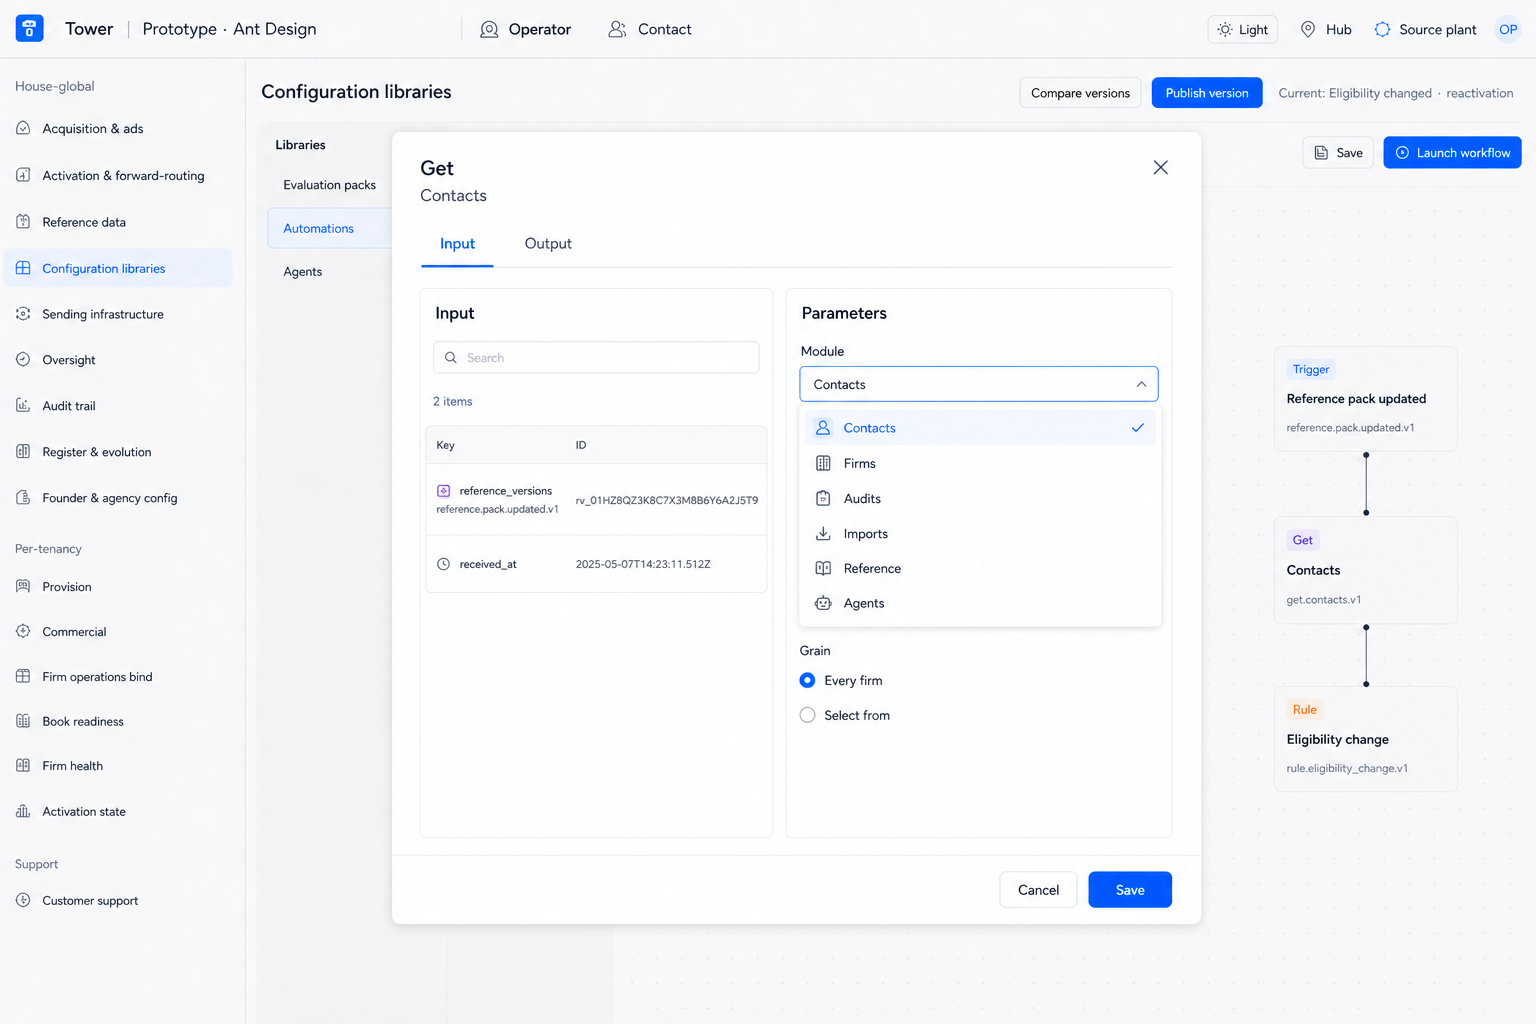
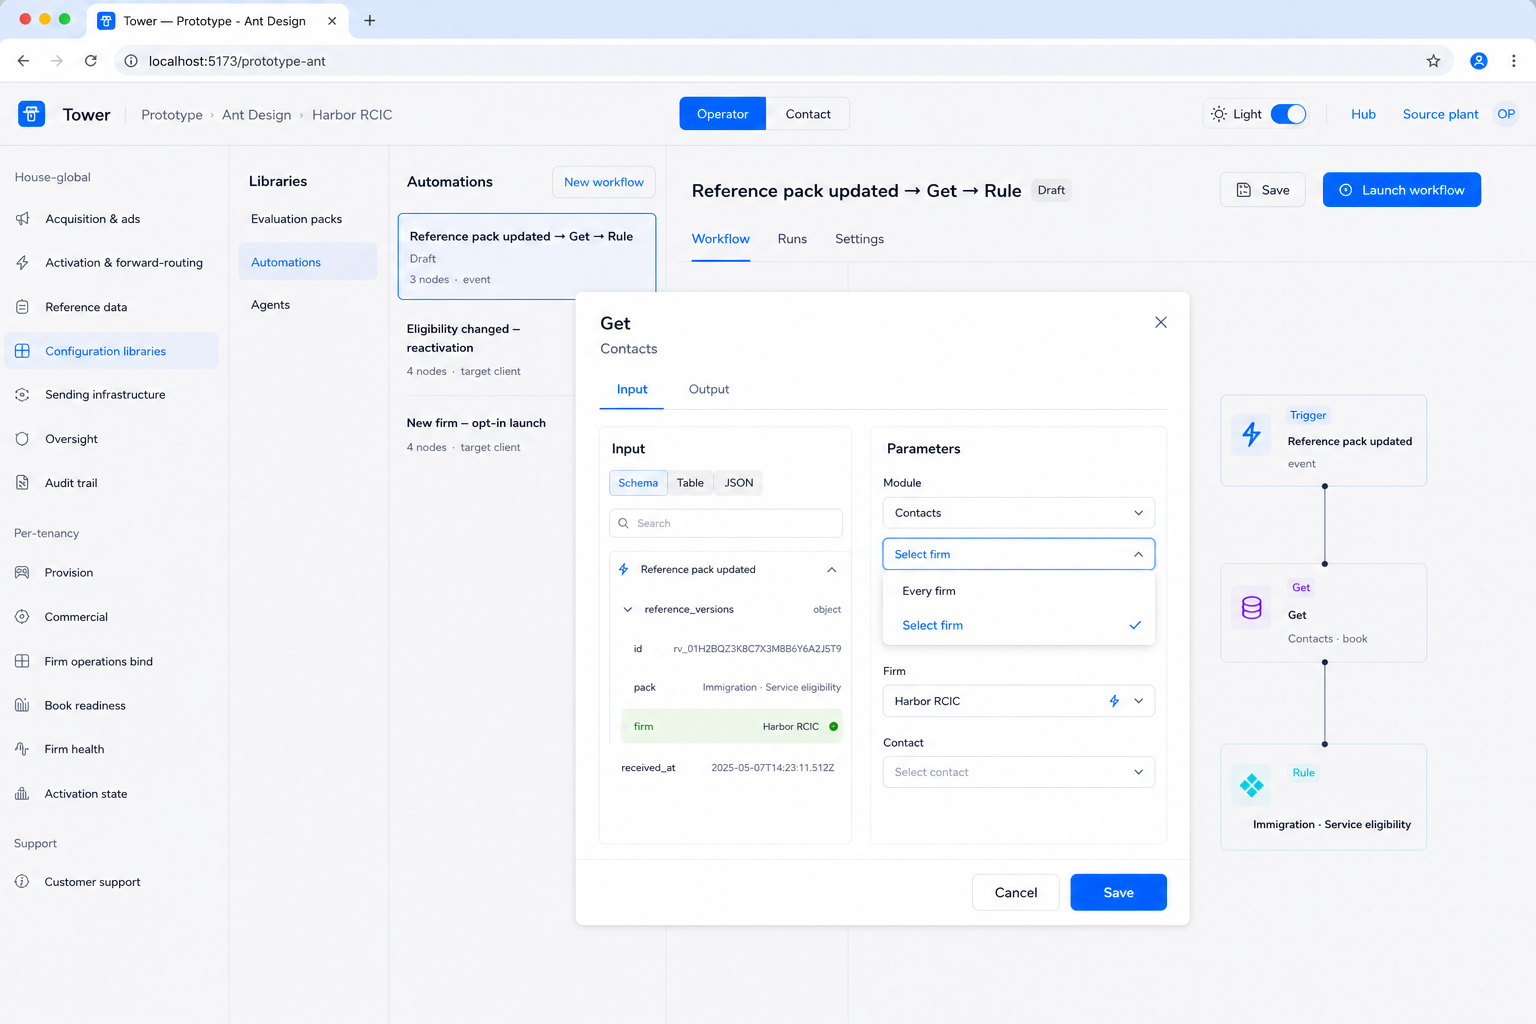
docs: A23 Parameters — Every firm stays; Select is a dropdown cascade
Left Input tree kept. Selector is a dropdown (Every firm / Select firm),
not radios. Select opens Firm then Contact comboboxes; left writes apply there.

diff --git a/docs/register/AUTOMATIONS-UI-BLUEPRINT.md b/docs/register/AUTOMATIONS-UI-BLUEPRINT.md
@@ -65,7 +65,7 @@ These files are **chosen**. Later plates revise earlier ones only where the tabl
 | **A18** | [`A18-trigger-global-local.png`](./automations-blueprint/A18-trigger-global-local.png) | chrome | Inside trigger. After the event: **Global** (all of that kind) or **Local** (this specific one). Example: form submitted. | 18:53 | fills law 27. A5 stays Event vs Schedule |
 | **A19** | [`A19-automations-contacts.png`](./automations-blueprint/A19-automations-contacts.png) | chrome | Automations **Contacts** = the same look as Agents C8. Same Add contact modal. Does not start a mission now. | 18:53 · 01:01 | companion to C8 / C8b |
 | **A22** | [`A22-get-canvas.png`](./automations-blueprint/A22-get-canvas.png) | chrome | Canvas. **Get** is a node kind. Chain: **Reference pack updated → Get → Rule**. Palette includes Get. | 17:06 | — |
-| **A23** | [`A23-get-input-parameters.png`](./automations-blueprint/A23-get-input-parameters.png) | chrome | Inside **Get**. n8n split: **Input** left (prior writes) · **Parameters** middle (Module + grain). **Output** is its own tab, not opened. Evergreen — not hardcoded. | 17:06 | — |
+| **A23** | [`A23-get-input-parameters.png`](./automations-blueprint/A23-get-input-parameters.png) | chrome | Inside **Get**. Left = n8n tree (keep). Parameters: **dropdown** Every firm / Select firm. Select → Firm then Contact **comboboxes** (dropdown + input). Left writes apply in those boxes. | 17:33 | revises 17:26 |
 
 **Why A10 / A13 are in the lineup and still not chrome:** they are the **idea** of output classes as a lattice. They are not Operator screens. The DAG piece that does that fork is the **If / condition node**, now on the glass as **A16**. Keep both diagrams so the evolution (hole → listing) is visible. Do not ascribe A13 as a screen.
 
@@ -535,7 +535,7 @@ Fallback: if Ant has no Rule GUI (it does not), the picture is still the face. H
 | **In-app action: ascribe a tag** | Campaign fails → record / tag. Subscription bell is that tag. | Named. Do not invent the rest. |
 | **Lineage queryable** | Who created the objective (agent vs hand), path to completion, completion event, time. | Queryable at minimum. Not a new screen. |
 | **Assign existing vs from template** | **Settled 00:02.** A14. No create-agent in Automations. | Drawn. |
-| **Get node** | New kind. Read records from a **module**, filter to a **grain**. Evergreen. Not Audit-as-people-pump. **A22** canvas · **A23** Input/Parameters. Output pane not drawn yet. | Drawn as plates. Not planted. |
+| **Get node** | New kind. Read records from a **module**. Input is n8n. Parameters: Every firm stays as a dropdown option; Select opens cascading comboboxes. Left writes apply in those boxes. **A22** · **A23**. Output not drawn. | Drawn as plates. Not planted. |
 
 ---
 
@@ -557,13 +557,15 @@ Fallback: if Ant has no Rule GUI (it does not), the picture is still the face. H
 
 ![A23 get input parameters](./automations-blueprint/A23-get-input-parameters.png)
 
-**Rationale (17:06):** n8n split. Input = prior writes in this chain (here: the pack update). Parameters = **Module** then **grain** of that module. Same Get node for every module — do not hardcode a Contacts-Get vs Audits-Get. Output is its **own tab**, not opened this plate.
+**Rationale (17:33):** Left stays n8n. Parameters go back toward Add contact’s Every firm / Select — but the selector is a **dropdown**, not radios, and it is not only firm. Select firm produces the next dropdown. Those dropdowns are also **input boxes**. That is where a left-side write (this firm, this contact) gets applied. Same choice will exist across modules given the classes that apply. Cascade until you have to pick.
 
-**On the glass:** Title Get · Contacts. Tabs Input (selected, body is the split) · Output. Left: `reference_versions` write. Parameters: Module Contacts (Firms / Audits / Imports / Reference / Agents in the picker). Grain for Contacts is the **book** (A22 chip: Contacts · book). The plate’s radio copy drifted to “Every firm” — that is not the Contacts grain; do not ship that label.
+**On the glass:** Module Contacts. First dropdown open: **Every firm** · **Select firm** (selected). Then **Firm** combobox with Harbor RCIC (lightning — left `firm` applied). Then **Contact** combobox empty: Select contact. No radios. No “Of” pill.
 
-**Do not build:** teaching captions. Immigration fields on Get. Audit inside Get. “Every firm” as the Contacts grain.
+**Do not build:** teaching captions. Flat Key/ID Input. Replacing Every firm with a mapped-only slot. Immigration fields on Get.
 
-**Not this plate:** Get Output pane. Rule Outcomes (A21).
+**Stale pixel:** `received_at` may sit under `reference_versions`. Sibling write, not child.
+
+**Not this plate:** Get Output pane. Rule Outcomes (A21). Every-firm default with no cascade showing.
 
 ---
 

diff --git a/docs/register/PHASE-TWO-LOG.md b/docs/register/PHASE-TWO-LOG.md
@@ -2,7 +2,7 @@
 
 **Purpose:** Running log so a new agent can start where we stopped. Thesis stays in [`PHASE-TWO.md`](./PHASE-TWO.md). Nothing is more important than this file staying current.
 
-**Current (read first, then the newest stamp at the bottom):** Agents **flagship** = 2026-08-15 15:43 UTC. **Get** is a node kind (**A22** canvas · **A23** Input/Parameters). Pack update → Get → Rule. Output of Get not drawn yet. Do not plant.
+**Current (read first, then the newest stamp at the bottom):** Agents **flagship** = 2026-08-15 15:43 UTC. **Get** is a node kind (**A22** · **A23**). Left of A23 is n8n (keep). Parameters: **Every firm** stays; it is a **dropdown** not a radio. **Select firm** opens the next dropdowns (also input boxes) — that is where left-side writes apply. Output of Get not drawn. Do not plant.
 
 **How we maintain this log**
 
@@ -1267,6 +1267,42 @@ Flag 15:43 untouched.
 **Do not build:** teaching captions. Hardcoded immigration fields on Get. A third Get-per-module kind.
 
 **Do not:** plant; recut 015; overwrite 15:43.
+
+Flag 15:43 untouched.
+
+---
+
+## 2026-08-18 17:26 UTC — A23 is n8n. Do not reinvent Input.
+
+**Why:** Founder on A23: ridiculous. Do not reinvent the wheel. n8n already has this.
+
+**1. Input (left).** Prior nodes in **canvas order**. Everything in **this** DAG chain / fork is available to this node. Each node’s **outputs sit underneath that node** — not a flat Key/ID table.
+
+**2. Why the left exists.** Those writes are always available to Parameters. You **reference** them. Get’s grain is not a new radio. For Contacts it is still a **contact**, a **specific contact**, or a **specific firm**. Interchangeable. Same slot.
+
+**Plate:** [`A23-get-input-parameters.png`](./automations-blueprint/A23-get-input-parameters.png) replaced. A22 stays.
+
+**On the glass:** Schema tree under **Reference pack updated**. `firm` mapped. Parameters: Module Contacts · **Of** = that firm. No Every firm. No Select from.
+
+**Stale pixel:** `received_at` may have nested under `reference_versions`. It is a write of the trigger, not a child of the version row. Trust the tree shape, not that nest. Do not ship a teaching caption.
+
+**Do not build:** Every firm / Select from on Get. Flat Key/ID Input. Teaching captions.
+
+**Do not:** plant; recut 015; overwrite 15:43.
+
+Flag 15:43 untouched.
+
+---
+
+## 2026-08-18 17:33 UTC — Parameters: dropdown, then dropdowns that are also input boxes
+
+**Why:** Founder: left of A23 is good — keep it. Right side, the previous Every firm was right. Do not replace it with a mapped-only slot. The change is one thing.
+
+**Selector** is a **dropdown**, not a radio. **Every firm** is one option. Next option is **Select firm** — not firm-only as law; classes that apply for that module. Select produces the next dropdown. Those dropdowns are also **input boxes**. Left-side writes apply **in those boxes** when you are picking a specific one. Cascade: firm, then contact, until you have to select. Cousin of Add contact Every firm / Select from — not a new pattern.
+
+**Plate:** [`A23-get-input-parameters.png`](./automations-blueprint/A23-get-input-parameters.png) replaced. Left unchanged in kind.
+
+**Do not:** plant; recut 015; overwrite 15:43. Do not update a pile of law before this is confirmed.
 
 Flag 15:43 untouched.
 

diff --git a/docs/register/AUTOMATIONS-FACE.md b/docs/register/AUTOMATIONS-FACE.md
@@ -136,7 +136,7 @@
 33. **When a node finishes, you have every write that run made.** The action sends the work to the **real** module. The next step **picks** which of those writes it is about. Not a boolean “done.” Not a short list we specified. Not “Audit is two things” and “Provision is a firm.” Same shape for every action. Live is on **main** (PR #94). Hub preview is not the live path. [`PRIMITIVES.md`](./PRIMITIVES.md).
 34. **Output pane: top is every output this run made; bottom is a preview of the one you click.** Required data is one of those outputs, not a glued-on listing. Same Output shape across node kinds. Plate **A20** revises A11. Hub Output today dumps Analysis + JSON — it does not select. The rule evaluator does not yet emit a required-data listing as a write; `COLLECTIBLE_FIELDS` is a catalog; `missing_fact_signals` is the named write and is not produced by the rule node.
 35. **Outcomes pane is stacked outcome cards. Per-outcome GUI | JS. Tabs are Input / Outcomes / Output — not GUI / Custom.** On → interior (conditions, or the code editor). Off → empty. Code has language, rename, line numbers, color, copy. Plate **A21** revises A2 / A3 / A4. Do not build teaching captions. Do not plant.
-36. **Get is a node kind.** It reads records from a **module** and filters to a **grain**. Evergreen — Parameters change with the module; the kind does not. Do not use Audit to fetch people. Pack / criteria updated → Get → Rule. Input can see prior writes in the chain. Output of Get is its own pane (**A22** · **A23**; Output not drawn yet).
+36. **Get is a node kind.** It reads records from a **module**. Evergreen — Parameters change with the module; the kind does not. Do not use Audit to fetch people. Pack / criteria updated → Get → Rule. **Input is n8n:** prior nodes in canvas order; each node’s outputs nested under it. Parameters: first control is a **dropdown** (Every firm is one option — not firm-only as law). **Select** opens the next dropdown; those dropdowns are also **input boxes**. Left-side writes apply **there**. Output of Get is its own pane (**A22** · **A23**; Output not drawn yet).
 
 ---
 

diff --git a/docs/register/IMPLEMENTER-FACE-PASS.md b/docs/register/IMPLEMENTER-FACE-PASS.md
@@ -179,7 +179,7 @@ These were asked. They are not “copy from C9/C11.”
 | **Rename nodes** | Click the title, edit in place, same as renaming a campaign in Agents. Including the If / condition node. Same pattern everywhere a name is changed. |
 | **Rule Output** | Match [`A20`](./automations-blueprint/A20-rule-output-select-preview.png). A11 is prior. |
 | **Rule Outcomes** | Match [`A21`](./automations-blueprint/A21-rule-outcomes-pane.png). A2 / A3 / A4 are prior. Do not build giant GUI/Custom. Do not build teaching captions. |
-| **Get** | New node kind. Canvas [`A22`](./automations-blueprint/A22-get-canvas.png). Interior [`A23`](./automations-blueprint/A23-get-input-parameters.png) — Input left / Parameters middle. Output is its own tab; pane not drawn yet. Not Audit. Not Action. Do not hardcode a Contacts-Get. |
+| **Get** | New node kind. Canvas [`A22`](./automations-blueprint/A22-get-canvas.png). Interior [`A23`](./automations-blueprint/A23-get-input-parameters.png) — keep the Input tree. Parameters: dropdown Every firm / Select firm; Select opens Firm then Contact comboboxes (dropdown + input). Left writes apply in those boxes. Output tab not drawn. Not Audit. |
 
 ---
 

diff --git a/docs/register/PRIMITIVES.md b/docs/register/PRIMITIVES.md
@@ -65,7 +65,7 @@ Not on the list: “write whatever into whatever table.” Not on the list: webh
 
 If / condition is not an action. It is a fork after a result.
 
-**Get** is not an action. It is a **node kind**. It **reads** records that already exist in a module and filters to a grain. The writes it produces are those records. Same handle: every write that run made. Not Audit. Not “who this applies to” as a Contacts-only special case — that grain lives **inside** Get when Module = Contacts.
+**Get** is not an action. It is a **node kind**. It **reads** records that already exist in a module. The writes it produces are those records. Same handle: every write that run made. Not Audit. Input is n8n: prior nodes in canvas order, that node’s outputs underneath. Parameters: Every firm is still a choice (dropdown). Select opens the next dropdowns, which are also input boxes — that is where left-side writes apply.
 
 ---
 
